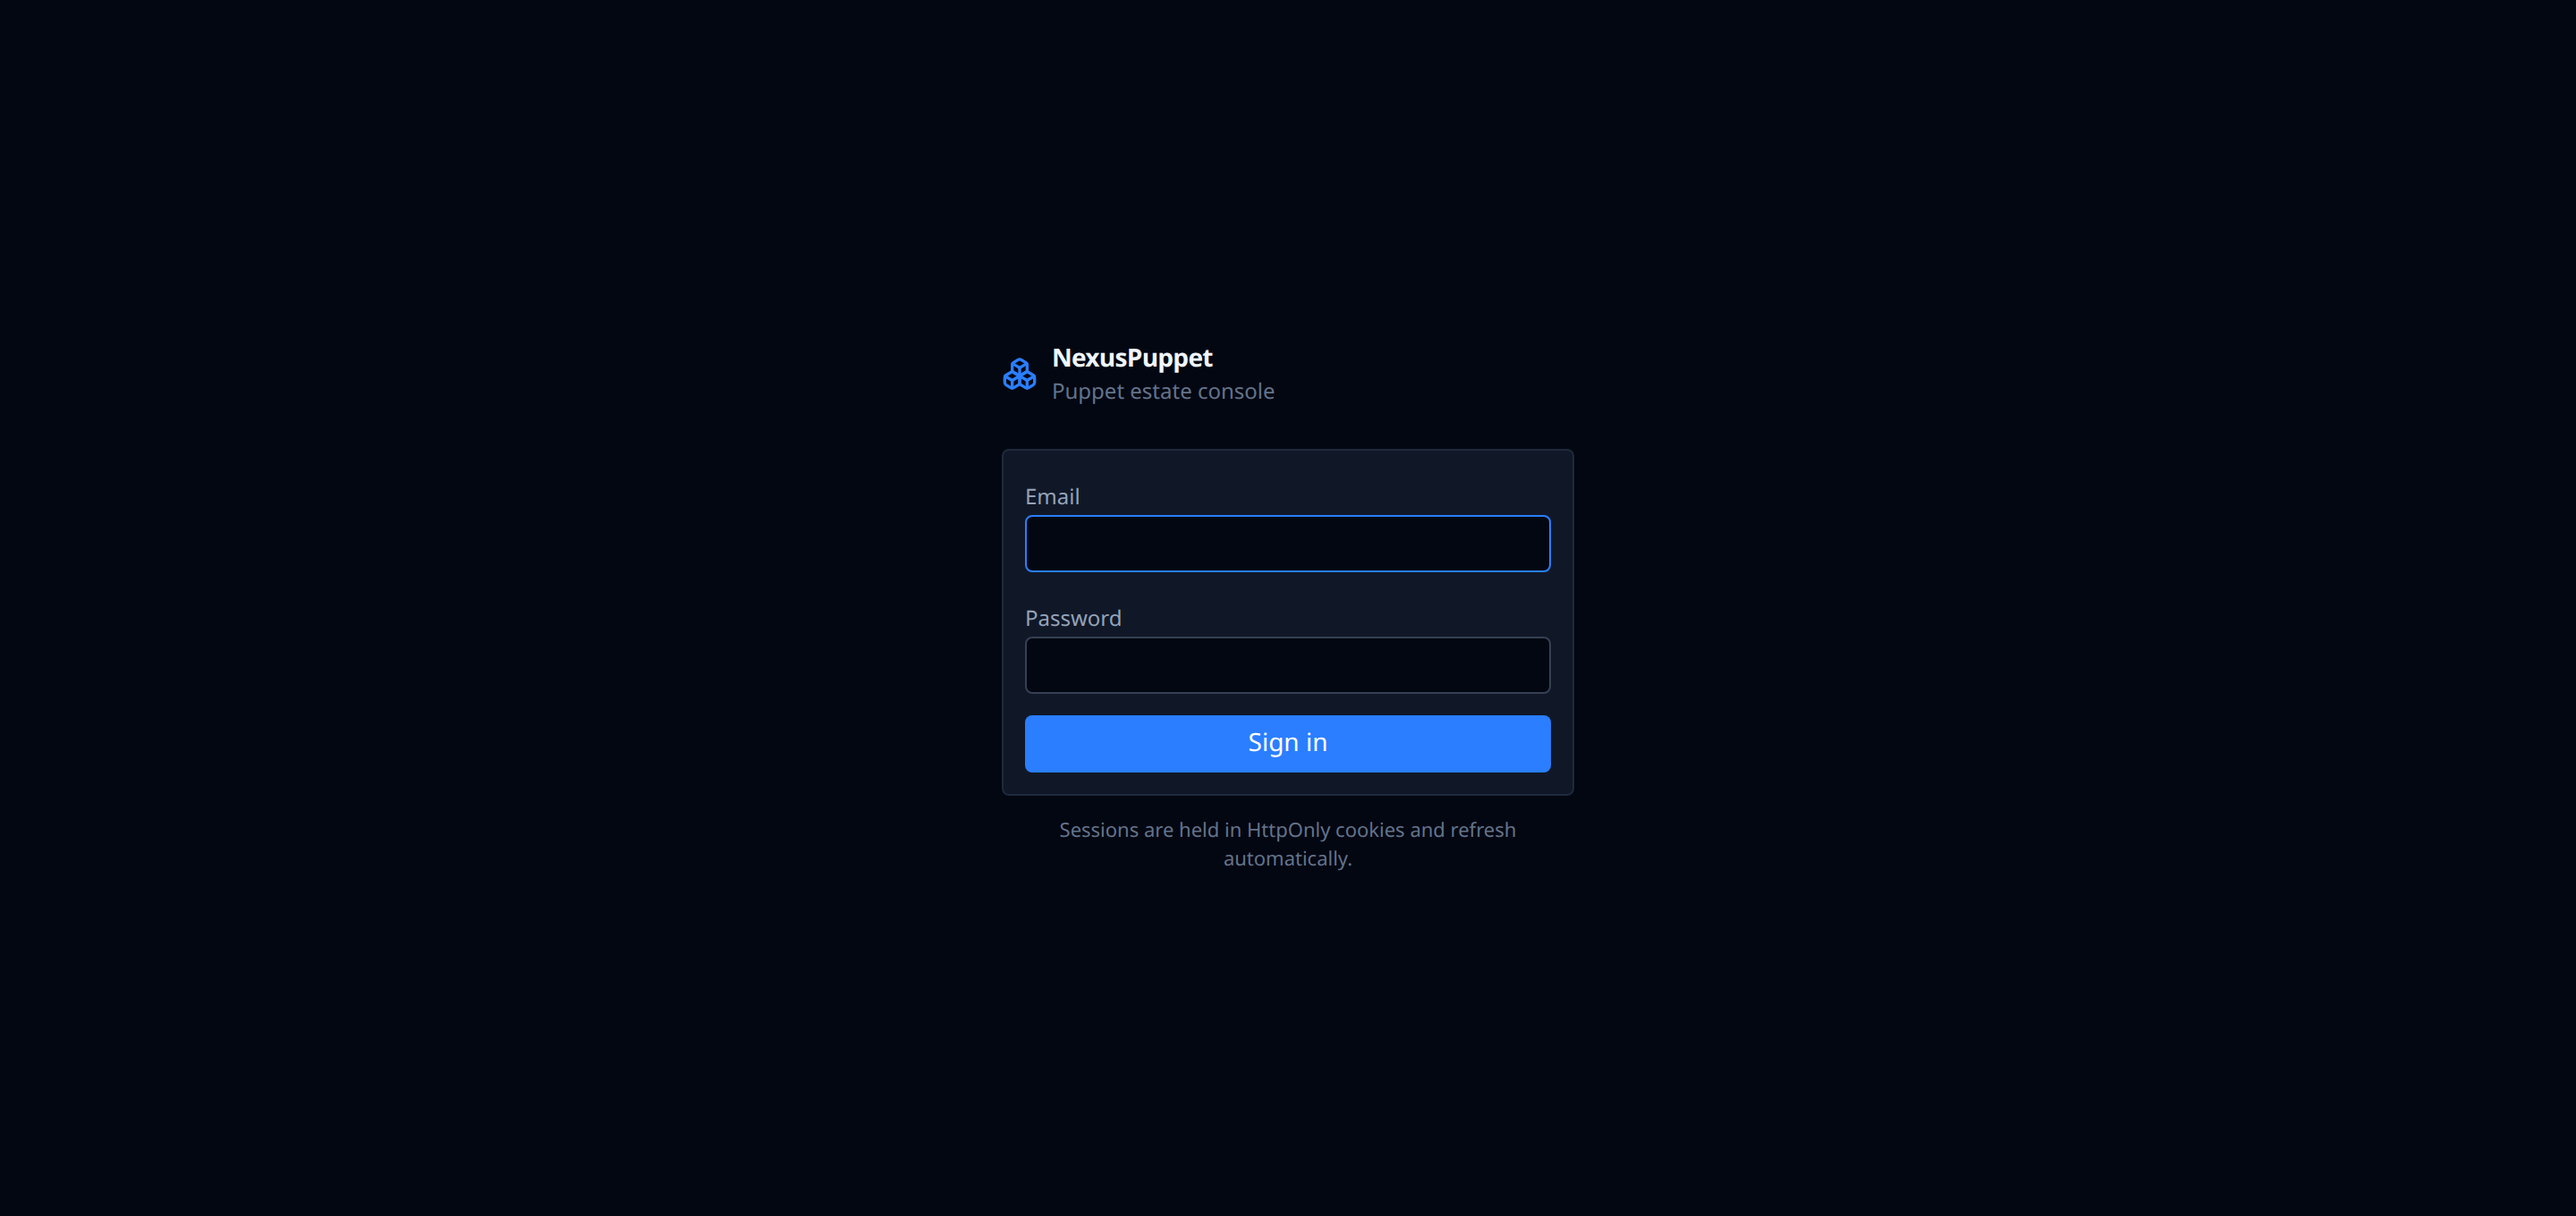
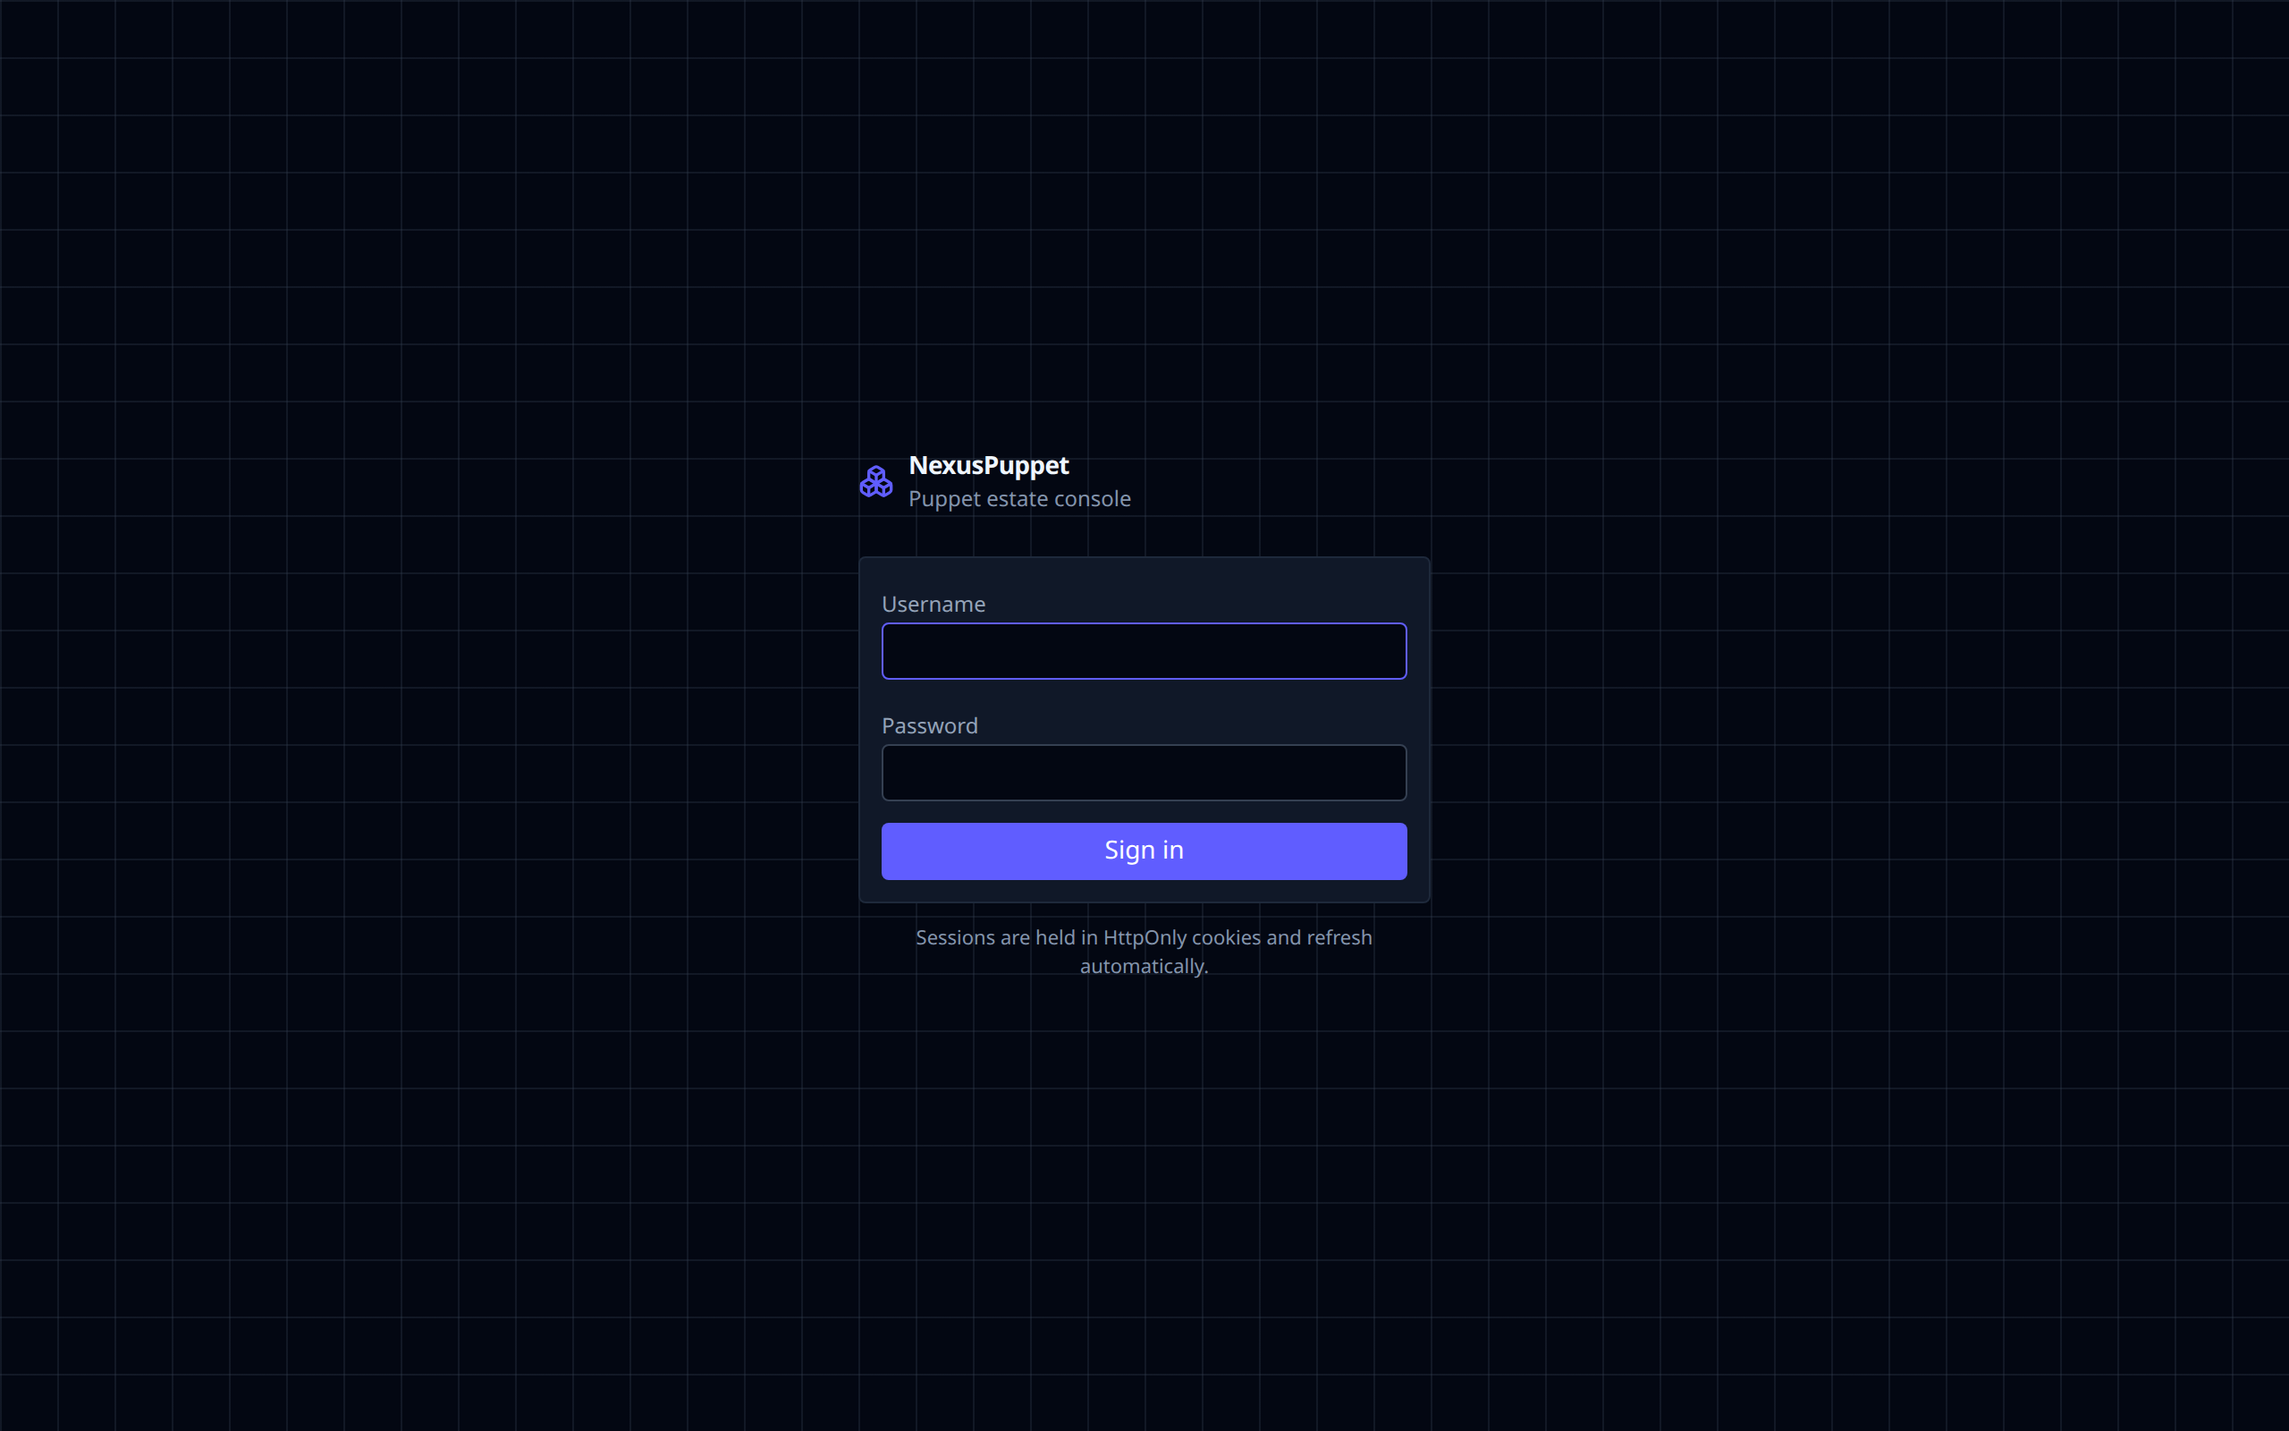
docs: refresh the user guide screenshots, and document what it never covered
Same neglect as the README: five images from 29 July, showing a product
several releases old. All five are generated now, so the guide and the README
refresh with one command.

Two of them needed handling the others did not:

- **Sign in must be captured SIGNED OUT.** The beforeEach has just logged in,
  so /login redirects and the capture would show the dashboard. Cookies are
  cleared first.
- **The dashboard must wait for real numbers**, or it photographs its own
  loading skeleton — a screenshot of an empty product.

**A contradiction the refresh exposed.** The guide said "sign in with the
address of your account"; the new capture says `Username`, because the field
is labelled for the deployment — `Email` where accounts are local, `Username`
where a directory supplies them. The product has always done this and the
guide never said so, so the text now explains it rather than the image being
quietly wrong.

**And what the guide had never documented at all.** It covered inventory,
reports and classification, and said nothing about estate-wide resource
search, saved queries or CSV export — the features of the last three releases.
Two new sections, renumbered into place with the contents list:

  7. What your nodes are actually running
  8. Filters worth keeping, and answers needed elsewhere

Section 4 also gains fact filtering, which its own screenshot has been showing
since the README refresh while the surrounding text listed only certname,
status and environment.
[…]

diff --git a/e2e/screenshots.spec.ts b/e2e/screenshots.spec.ts
@@ -291,6 +291,61 @@ test.describe('@screenshots', () => {
 
     await page.screenshot({ path: `${SHOTS}/report-detail.png` });
   });
+
+  /*
+   * The USER_GUIDE captures.
+   *
+   * Same argument as the README ones, and the same neglect: these were taken
+   * on 29 July and the guide has been showing a product several releases old
+   * ever since.
+   */
+  test('sign in', async ({ page, context }) => {
+    /*
+     * SIGNED OUT, which the beforeEach has just undone. Clearing the cookies is
+     * what makes /login render the form rather than redirect to the dashboard —
+     * without it this captures the page nobody sees.
+     */
+    await context.clearCookies();
+    await page.goto('/login');
+    await expect(page.getByRole('button', { name: 'Sign in' })).toBeVisible({ timeout: 15_000 });
+    // The identifier field, whatever this deployment calls it.
+    await expect(page.getByLabel(/^(Email|Username)$/)).toBeVisible();
+
+    await page.screenshot({ path: `${SHOTS}/login.png` });
+  });
+
+  test('dashboard', async ({ page }) => {
+    await page.goto('/');
+    // Wait for real numbers. A dashboard of zeroes and skeletons is a
+    // screenshot of the product still loading.
+    await expect(page.getByText(/Nodes/).first()).toBeVisible({ timeout: 20_000 });
+    await expect(page.locator('text=/\d+/').first()).toBeVisible({ timeout: 20_000 });
+
+    await page.screenshot({ path: `${SHOTS}/dashboard.png` });
+  });
+
+  test('reports list', async ({ page }) => {
+    await page.goto('/reports');
+    await expect(page.locator('table tbody tr').first()).toBeVisible({ timeout: 20_000 });
+
+    await page.screenshot({ path: `${SHOTS}/reports.png` });
+  });
+
+  test('classification list', async ({ page }) => {
+    await page.goto('/classification');
+    await expect(page.locator('a[href^="/classification/"]').first()).toBeVisible({
+      timeout: 20_000,
+    });
+
+    await page.screenshot({ path: `${SHOTS}/classification.png` });
+  });
+
+  test('settings', async ({ page }) => {
+    await page.goto('/settings');
+    await expect(page.getByRole('heading', { name: /Settings/ })).toBeVisible({ timeout: 20_000 });
+
+    await page.screenshot({ path: `${SHOTS}/settings.png` });
+  });
 });
 
 async function put(request: APIRequestContext, url: string, data: unknown): Promise<void> {

diff --git a/docs/USER_GUIDE.md b/docs/USER_GUIDE.md
@@ -10,10 +10,12 @@ How to use the console once it is running. If you are still installing, see the 
 4. [Node inventory](#4-node-inventory)
 5. [A single node](#5-a-single-node)
 6. [Run reports](#6-run-reports)
-7. [Classification](#7-classification)
-8. [How classification reaches your nodes](#8-how-classification-reaches-your-nodes)
-9. [Administration](#9-administration)
-10. [Troubleshooting](#10-troubleshooting)
+7. [What your nodes are actually running](#7-what-your-nodes-are-actually-running)
+8. [Filters worth keeping, and answers needed elsewhere](#8-filters-worth-keeping-and-answers-needed-elsewhere)
+9. [Classification](#9-classification)
+10. [How classification reaches your nodes](#10-how-classification-reaches-your-nodes)
+11. [Administration](#11-administration)
+12. [Troubleshooting](#12-troubleshooting)
 
 ---
 
@@ -36,7 +38,9 @@ If you only remember one thing: **eventual consistency is deliberate here, and i
 
 ![Sign in](images/login.png)
 
-Sign in with the address and password of your account. The first administrator is seeded from `BOOTSTRAP_ADMIN_EMAIL` / `BOOTSTRAP_ADMIN_PASSWORD` the first time the API starts against an empty database; those variables do nothing afterwards and should be removed from the environment.
+Sign in with your account and password. **The first field is labelled for the deployment** — `Email` where accounts are local, `Username` where a directory supplies them, as above — so it asks for whatever you actually type rather than a name that only fits one setup.
+
+The first administrator is seeded from `BOOTSTRAP_ADMIN_EMAIL` / `BOOTSTRAP_ADMIN_PASSWORD` the first time the API starts against an empty database; those variables do nothing afterwards and should be removed from the environment.
 
 Repeated failed attempts lock the account temporarily. This is deliberate and applies even to correct passwords once the account is locked — wait it out, or have another administrator reset it.
 
@@ -72,6 +76,7 @@ Estate health at a glance:
 
 Every node PuppetDB knows about, with its status, environment, last run, and last fact submission.
 
+- **Filter by fact** — the question everyone asks first: *"which machines are Ubuntu 22.04?"* Add a fact path, an operator and a value, using the same vocabulary classification rules use, so there is one grammar to learn rather than two. The value field suggests what the estate actually reports, because knowing a fact is called `os.name` does not tell you whether this estate spells it `Ubuntu` or `ubuntu`.
 - **Filter by certname** — a literal substring match. Regex metacharacters are matched literally, so typing `.` finds a dot rather than everything.
 - **Status chips** — click to include or exclude *Failed*, *Changed*, *Unchanged*, *Unknown*.
 - **Environment** — narrow to one environment. A node whose report, facts and catalog environments disagree is usually mid-migration; NexusPuppet shows the effective one and keeps all three.
@@ -79,6 +84,8 @@ Every node PuppetDB knows about, with its status, environment, last run, and las
 - **Sort** by clicking a column header.
 
 **Last run** and **Facts** can differ, and the gap is informative: facts arriving without a report usually means catalog compilation is failing.
+
+A filter worth keeping can be saved, and the whole filtered set exported — see [Filters worth keeping](#8-filters-worth-keeping-and-answers-needed-elsewhere).
 
 ---
 
@@ -130,7 +137,42 @@ A skipped resource is not a failure: Puppet skips resources whose dependencies f
 
 ---
 
-## 7. Classification
+## 7. What your nodes are actually running
+
+Classification describes what a machine *should* get. **Resources** shows what it *does* get, read from the catalogs PuppetDB already stores, and answers the question that is not a lookup: do these machines agree?
+
+![Estate-wide resource search](images/resource-search.png)
+
+Search by resource type — `File`, `Package`, `Service` — and optionally a title. Results group by resource and lead with **variants**: how many genuinely different configurations exist among the nodes carrying it.
+
+- **1 variant** means every node is byte-identical. Nothing to look at.
+- **More than 1** means nodes that should match do not. Expanding names them.
+
+Above, one development node carries a different `sshd_config` from the other twenty. **Compare parameters** shows what differs — here `mode` and the file's contents — with the unchanged parameters dimmed.
+
+**A type is required**, and a search that would match more than the page can group tells you the number instead of trying. Both exist because an unnarrowed resource query is the whole estate's catalog.
+
+**Variance is counted within an environment, never across it.** Development and production are supposed to differ.
+
+Reading parameters needs `resources:read`, which is deliberately separate from inventory access: a managed file's contents can hold a credential. Expanding parameters, and searching by parameter value, are recorded in the audit trail.
+
+---
+
+## 8. Filters worth keeping, and answers needed elsewhere
+
+Any filter on **Nodes** or **Resources** can be saved and named.
+
+Saved filters are **private by default**. Sharing one makes it visible to colleagues — but only to those who hold the permission needed to run it, because a name like "sudoers on the payment boxes" is itself information about your estate.
+
+If you leave, your private filters go with your account and your shared ones stay, still showing who made them. The team keeps what it depends on.
+
+**Export CSV** downloads the whole filtered result set — not the page on screen. On the Nodes page that is a row per node; on Resources it is a row per node with its variant, so sorting by `is_baseline` puts every drifted machine together.
+
+Values are defused before they are written: a fact or certname beginning `=` would otherwise be run as a formula by a spreadsheet, and those values come from the nodes themselves.
+
+---
+
+## 9. Classification
 
 ![Classification](images/classification.png)
 
@@ -246,7 +288,7 @@ The estate-wide view groups by *which* override it is — the setting, the winni
 
 ---
 
-## 8. How classification reaches your nodes
+## 10. How classification reaches your nodes
 
 Understanding this makes the console's timing behaviour obvious.
 
@@ -275,7 +317,7 @@ Separately, a **projector** polls PuppetDB for changed facts and refreshes the c
 
 ---
 
-## 9. Administration
+## 11. Administration
 
 ![Settings](images/settings.png)
 
@@ -325,7 +367,7 @@ Administrators can queue a full reconcile from the console. This re-materializes
 
 ---
 
-## 10. Troubleshooting
+## 12. Troubleshooting
 
 ### A rule matches nothing
 
